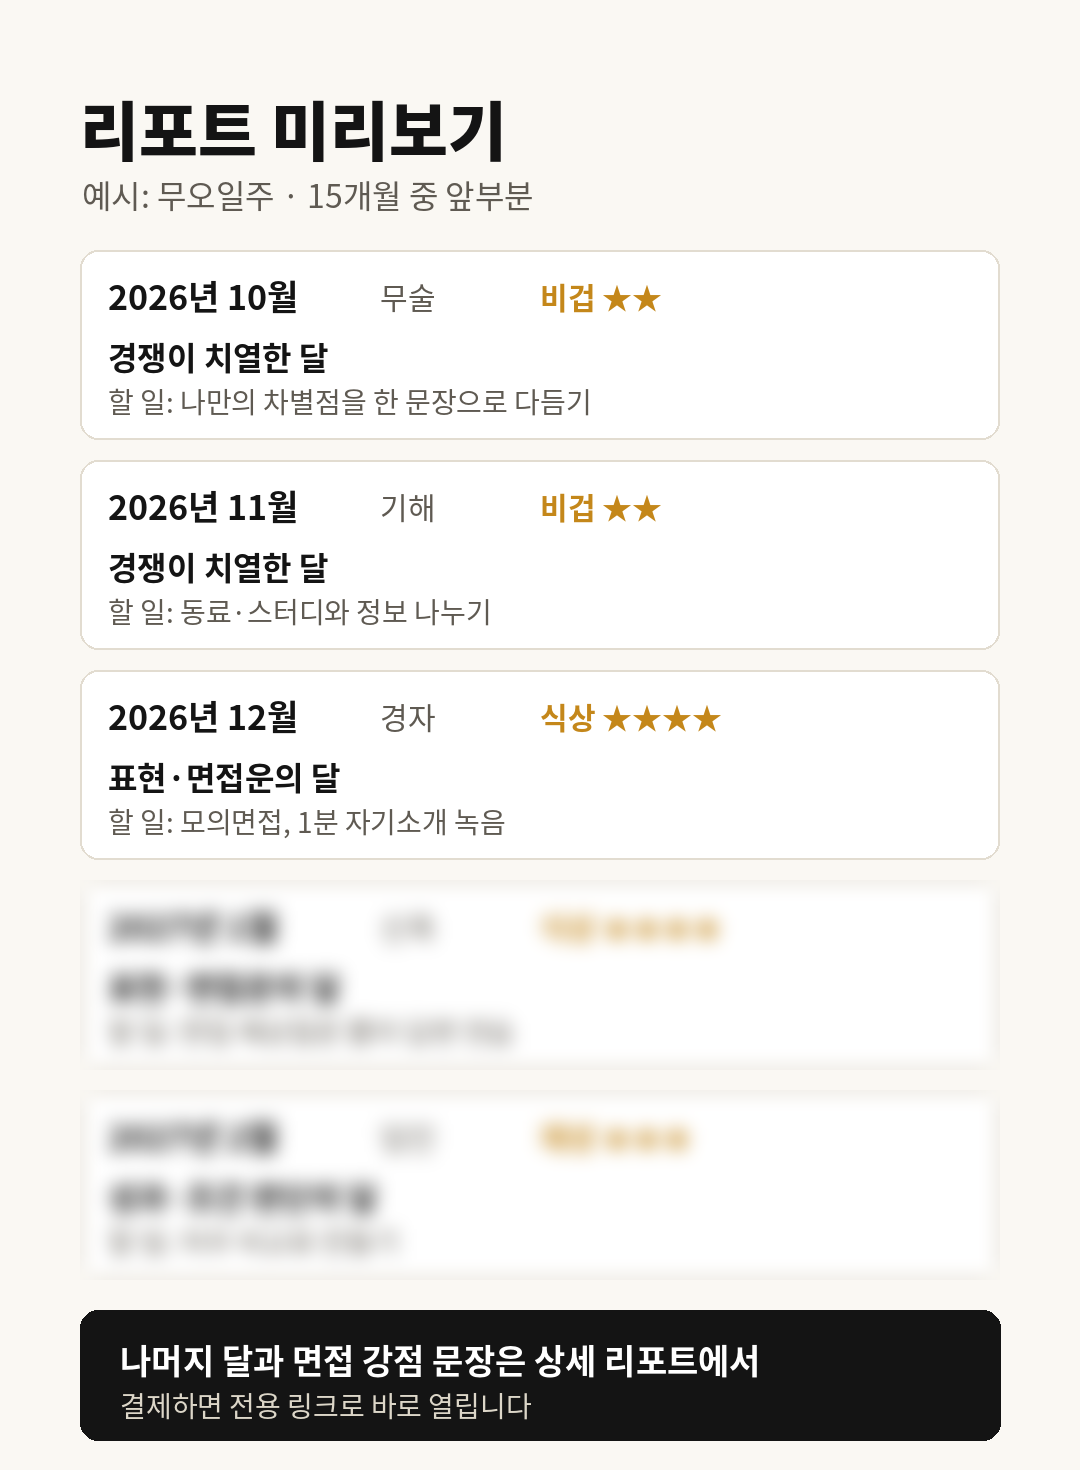
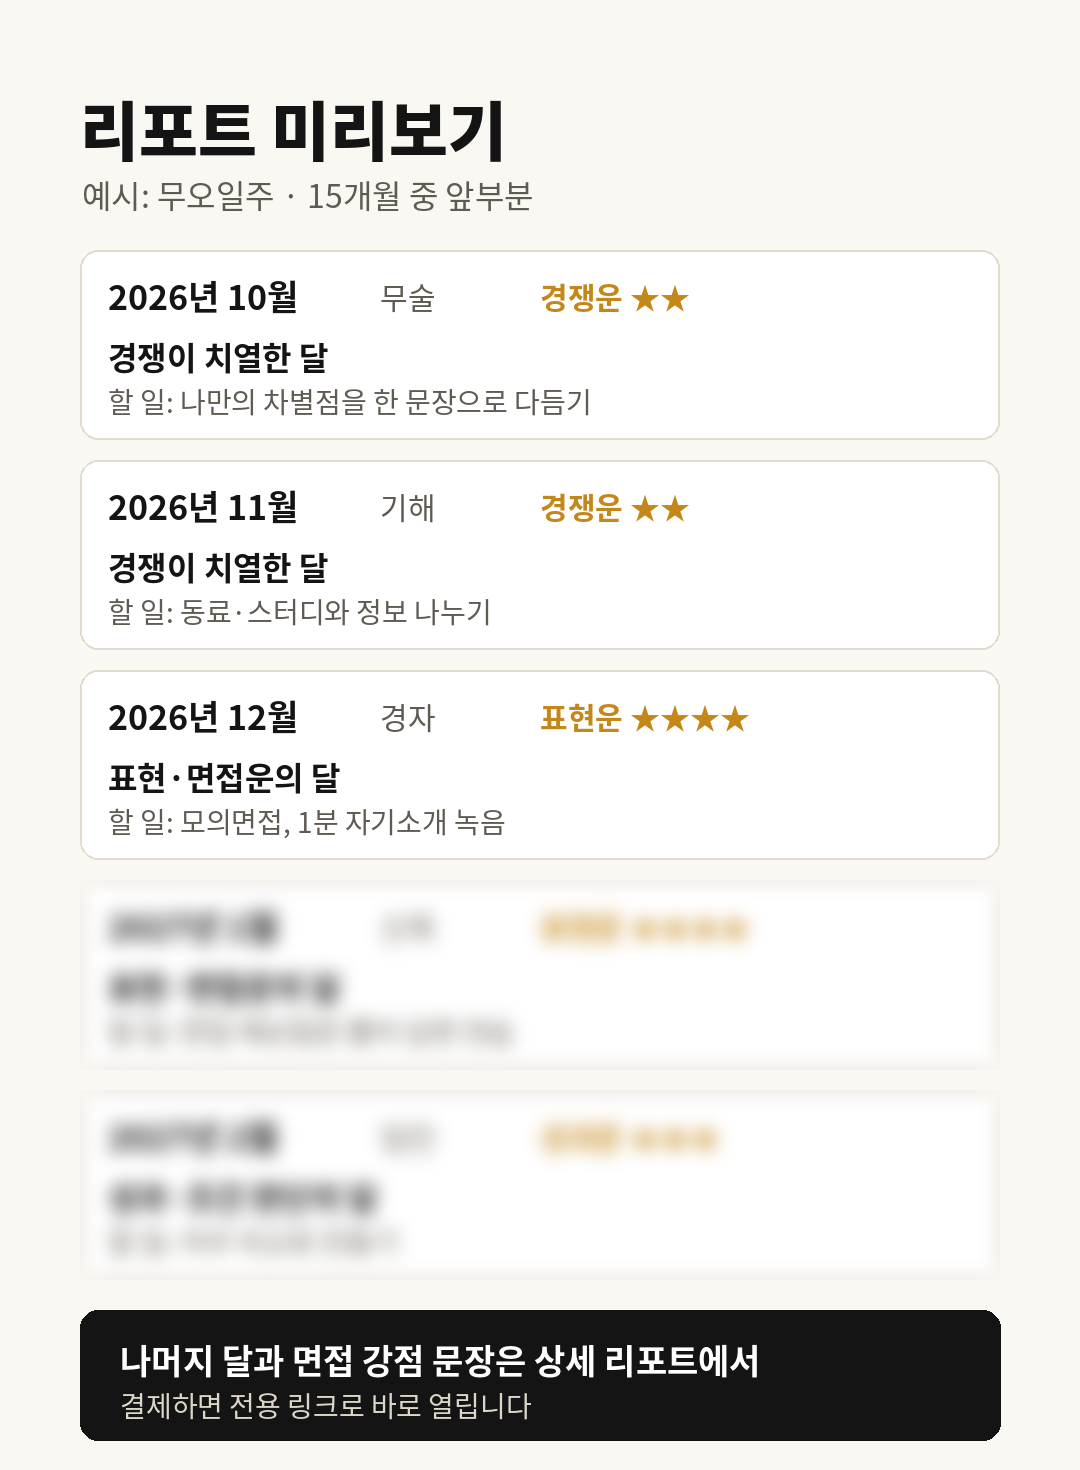
취업 사주: 십신 용어 앞에 쉬운 말(직장운·문서운·표현운·성과운·경쟁운) — 도구 표·래피드 미리보기 이미지

diff --git a/tools/job-saju.html b/tools/job-saju.html
@@ -265,7 +265,7 @@ function d(i){return document.getElementById(i);}
 var BUY_URL='https://www.latpeed.com/products/j7D20'; // 라텟 이용권 상품 URL (취업운세와 공용)
[1 lines of base64/hex data omitted]
 var S='갑을병정무기경신임계', B='자축인묘진사오미신유술해', HS='甲乙丙丁戊己庚辛壬癸', HB='子丑寅卯辰巳午未申酉戌亥';
-var DM=[["갑목", "큰 나무", ["목표가 정해지면 곧게 밀고 나가는 추진형입니다.", "앞장서서 판을 짜는 역할에서 힘을 냅니다.", "방향이 흔들리는 조직에서는 답답함을 크게 느낍니다."], ["\"목표를 먼저 정하고 역할을 나눠 끝까지 끌고 간 경험이 있습니다.\"", "\"맡은 일의 방향이 흐려지면 먼저 기준을 제안하는 편입니다.\""], ["내가 처음 시작해서 끝까지 이끈 일은 무엇인가?", "팀이 멈췄을 때 방향을 다시 잡은 순간은 언제인가?"], "목표가 분명하고 책임 범위가 넓은 자리"], ["을목", "풀과 덩굴", ["상황에 맞춰 유연하게 길을 찾는 적응형입니다.", "사람 사이를 잇고 분위기를 살리는 데 강합니다.", "혼자 모든 걸 결정해야 하는 자리에서는 부담을 느낍니다."], ["\"처음 맡는 일도 주변 자료와 사람을 빠르게 연결해 적응했습니다.\"", "\"의견이 갈릴 때 양쪽이 받아들일 수 있는 방법을 찾는 편입니다.\""], ["낯선 환경에 빠르게 적응했던 경험은 무엇인가?", "서로 다른 사람을 연결해 일이 풀린 적은 언제인가?"], "협업이 많고 관계가 중요한 자리"], ["병화", "태양", ["밝고 솔직하게 드러내는 표현형입니다.", "사람들 앞에서 설명하고 설득하는 자리에서 빛납니다.", "반복적이고 조용한 일만 계속되면 쉽게 지칩니다."], ["\"사람들 앞에서 설명하고 반응을 이끌어내는 일에 자신이 있습니다.\"", "\"분위기가 가라앉은 팀에서 먼저 말을 꺼내 흐름을 바꾼 적이 있습니다.\""], ["내가 앞에 나서서 분위기를 바꾼 순간은 언제인가?", "설명이나 발표로 누군가를 설득한 경험은 무엇인가?"], "드러내고 설득하는 대면 업무"], ["정화", "촛불", ["한곳에 집중해 섬세하게 완성하는 몰입형입니다.", "사람의 마음을 세심하게 살피는 배려가 강점입니다.", "한꺼번에 여러 일을 던지면 집중이 흩어집니다."], ["\"한 가지 일에 깊이 몰입해 완성도를 끝까지 끌어올린 경험이 있습니다.\"", "\"상대가 말하지 않은 불편을 먼저 알아차려 챙기는 편입니다.\""], ["끝까지 파고들어 완성도를 높인 결과물은 무엇인가?", "누군가의 불편을 먼저 알아차려 해결한 적은 언제인가?"], "전문성을 깊게 쌓는 자리"], ["무토", "큰 산", ["묵직하게 중심을 지키는 신뢰형입니다.", "갈등 속에서도 흔들리지 않고 조율하는 힘이 있습니다.", "변화가 너무 잦은 조직에서는 피로를 느낍니다."], ["\"약속한 일은 끝까지 지켜 팀에서 믿고 맡기는 사람이 됐습니다.\"", "\"의견이 부딪칠 때 한발 물러서 전체 그림을 정리하는 역할을 맡습니다.\""], ["사람들이 나에게 믿고 맡긴 일은 무엇이었나?", "갈등 한가운데서 중심을 잡은 경험은 언제인가?"], "안정적으로 조직을 받치는 자리"], ["기토", "논밭", ["실속 있게 가꾸고 챙기는 실용형입니다.", "세부 일정과 사람을 꼼꼼히 조율하는 데 강합니다.", "큰 그림만 있고 실행 계획이 없는 일은 불편해합니다."], ["\"큰 목표를 날짜별 할 일로 쪼개 실제로 굴러가게 만든 경험이 있습니다.\"", "\"놓치기 쉬운 세부 사항을 챙겨 일정이 밀리지 않게 했습니다.\""], ["막연한 계획을 실행 가능한 일정으로 바꾼 적은 언제인가?", "작은 부분을 챙겨 큰 문제를 막은 경험은 무엇인가?"], "운영·관리처럼 실행을 챙기는 자리"], ["경금", "바위와 쇠", ["원칙이 분명하고 결단이 빠른 실행형입니다.", "어려운 결정을 미루지 않고 밀어붙이는 힘이 있습니다.", "기준 없이 흐지부지 넘어가는 문화와는 맞지 않습니다."], ["\"기준을 세우고 빠르게 결정해 일을 끝낸 경험이 있습니다.\"", "\"불편하더라도 필요한 말은 분명하게 하는 편입니다.\""], ["다들 망설일 때 내가 결단한 일은 무엇인가?", "원칙을 지켜서 결과가 좋아진 경험은 언제인가?"], "결정과 실행이 빠른 자리"], ["신금", "보석", ["정교하게 다듬어 완성도를 높이는 완벽형입니다.", "작은 차이를 알아보는 감각이 뛰어납니다.", "대충 끝내는 분위기에서는 스트레스를 받습니다."], ["\"결과물을 여러 번 점검해 오류 없이 마무리하는 편입니다.\"", "\"남들이 지나치는 작은 차이를 찾아 품질을 높인 경험이 있습니다.\""], ["작은 차이를 알아봐서 결과가 달라진 적은 언제인가?", "끝까지 다듬어 완성도를 높인 결과물은 무엇인가?"], "품질과 정확성이 중요한 자리"], ["임수", "바다", ["크게 보고 멀리 계획하는 전략형입니다.", "여러 정보를 모아 흐름을 읽는 데 강합니다.", "너무 좁은 규칙에 묶이면 답답해합니다."], ["\"흩어진 정보를 모아 전체 흐름을 읽고 방향을 제안한 경험이 있습니다.\"", "\"당장보다 몇 단계 뒤를 보고 준비하는 편입니다.\""], ["전체 흐름을 읽고 먼저 움직인 경험은 무엇인가?", "여러 정보를 모아 새로운 방법을 찾은 적은 언제인가?"], "기획·전략처럼 큰 그림을 그리는 자리"], ["계수", "비와 이슬", ["조용히 스며들어 분석하는 세심형입니다.", "데이터와 사람의 반응을 섬세하게 읽어 냅니다.", "성과를 크게 드러내야 하는 자리에서는 움츠러들 수 있습니다."], ["\"자료를 꼼꼼히 분석해 놓치던 원인을 찾아낸 경험이 있습니다.\"", "\"상대의 반응을 살피며 설명 방식을 바꿔 이해를 도운 적이 있습니다.\""], ["분석으로 문제의 진짜 원인을 찾은 경험은 무엇인가?", "상대에 맞춰 방식을 바꿔 결과가 좋아진 적은 언제인가?"], "분석과 지원처럼 깊이 있게 돕는 자리"]], EL=["목(木)", "화(火)", "토(土)", "금(金)", "수(水)"], YEAR={"0": "표현하고 드러낼수록 기회가 오는 흐름입니다. 면접·포트폴리오처럼 나를 보여 주는 전형에서 힘이 붙습니다.", "1": "비슷한 사람이 많아 경쟁이 치열한 흐름입니다. 대신 스터디·동료·지인 추천처럼 사람을 통한 기회가 힘이 됩니다.", "2": "문서와 자격, 합격 소식이 따르는 흐름입니다. 서류 전형과 자격 취득, 추천서처럼 \"나를 증명하는 문서\"에 힘이 실립니다.", "3": "직장과 조직의 기운이 강하게 들어오는 흐름입니다. 취업·이직·승진처럼 소속이 정해지는 일에 가장 좋은 때입니다.", "4": "성과와 보상, 현실 감각이 살아나는 흐름입니다. 처우 비교와 연봉 협상처럼 조건을 따지는 판단에 유리합니다."}, SS={"gwan": ["관성", 5, "합격·조직운이 강한 달", "최종 전형과 입사 결정이 몰리는 때입니다. 지원 수를 늘리고 면접 준비에 힘을 싣으세요.", ["/daily-question", "면접 질문 100개로 답변 연습"]], "in": ["인성", 4, "서류·자격·도움운의 달", "서류를 마무리하고 자격 시험, 추천 요청처럼 나를 증명하는 일에 좋은 때입니다.", ["/tools/checklist", "자소서 제출 전 자가진단"]], "sik": ["식상", 4, "표현·면접운의 달", "말하고 보여 주는 힘이 살아납니다. 모의면접과 1분 자기소개 녹음을 해 보세요.", ["/tools/interview-question-picker", "면접 예상질문 뽑기"]], "jae": ["재성", 3, "성과·조건 판단의 달", "처우를 비교하고 현실적인 선택을 하기 좋은 때입니다. 연봉과 조건을 표로 정리하세요.", ["/tools/salary", "실수령액 계산기"]], "bi": ["비겁", 2, "경쟁이 치열한 달", "비슷한 지원자가 몰리는 때입니다. 나만의 차별점을 한 문장으로 다듬고 동료와 정보를 나누세요.", ["/blog/job-search-scope-strategy", "병행 지원 관리법"]]};
+var DM=[["갑목", "큰 나무", ["목표가 정해지면 곧게 밀고 나가는 추진형입니다.", "앞장서서 판을 짜는 역할에서 힘을 냅니다.", "방향이 흔들리는 조직에서는 답답함을 크게 느낍니다."], ["\"목표를 먼저 정하고 역할을 나눠 끝까지 끌고 간 경험이 있습니다.\"", "\"맡은 일의 방향이 흐려지면 먼저 기준을 제안하는 편입니다.\""], ["내가 처음 시작해서 끝까지 이끈 일은 무엇인가?", "팀이 멈췄을 때 방향을 다시 잡은 순간은 언제인가?"], "목표가 분명하고 책임 범위가 넓은 자리"], ["을목", "풀과 덩굴", ["상황에 맞춰 유연하게 길을 찾는 적응형입니다.", "사람 사이를 잇고 분위기를 살리는 데 강합니다.", "혼자 모든 걸 결정해야 하는 자리에서는 부담을 느낍니다."], ["\"처음 맡는 일도 주변 자료와 사람을 빠르게 연결해 적응했습니다.\"", "\"의견이 갈릴 때 양쪽이 받아들일 수 있는 방법을 찾는 편입니다.\""], ["낯선 환경에 빠르게 적응했던 경험은 무엇인가?", "서로 다른 사람을 연결해 일이 풀린 적은 언제인가?"], "협업이 많고 관계가 중요한 자리"], ["병화", "태양", ["밝고 솔직하게 드러내는 표현형입니다.", "사람들 앞에서 설명하고 설득하는 자리에서 빛납니다.", "반복적이고 조용한 일만 계속되면 쉽게 지칩니다."], ["\"사람들 앞에서 설명하고 반응을 이끌어내는 일에 자신이 있습니다.\"", "\"분위기가 가라앉은 팀에서 먼저 말을 꺼내 흐름을 바꾼 적이 있습니다.\""], ["내가 앞에 나서서 분위기를 바꾼 순간은 언제인가?", "설명이나 발표로 누군가를 설득한 경험은 무엇인가?"], "드러내고 설득하는 대면 업무"], ["정화", "촛불", ["한곳에 집중해 섬세하게 완성하는 몰입형입니다.", "사람의 마음을 세심하게 살피는 배려가 강점입니다.", "한꺼번에 여러 일을 던지면 집중이 흩어집니다."], ["\"한 가지 일에 깊이 몰입해 완성도를 끝까지 끌어올린 경험이 있습니다.\"", "\"상대가 말하지 않은 불편을 먼저 알아차려 챙기는 편입니다.\""], ["끝까지 파고들어 완성도를 높인 결과물은 무엇인가?", "누군가의 불편을 먼저 알아차려 해결한 적은 언제인가?"], "전문성을 깊게 쌓는 자리"], ["무토", "큰 산", ["묵직하게 중심을 지키는 신뢰형입니다.", "갈등 속에서도 흔들리지 않고 조율하는 힘이 있습니다.", "변화가 너무 잦은 조직에서는 피로를 느낍니다."], ["\"약속한 일은 끝까지 지켜 팀에서 믿고 맡기는 사람이 됐습니다.\"", "\"의견이 부딪칠 때 한발 물러서 전체 그림을 정리하는 역할을 맡습니다.\""], ["사람들이 나에게 믿고 맡긴 일은 무엇이었나?", "갈등 한가운데서 중심을 잡은 경험은 언제인가?"], "안정적으로 조직을 받치는 자리"], ["기토", "논밭", ["실속 있게 가꾸고 챙기는 실용형입니다.", "세부 일정과 사람을 꼼꼼히 조율하는 데 강합니다.", "큰 그림만 있고 실행 계획이 없는 일은 불편해합니다."], ["\"큰 목표를 날짜별 할 일로 쪼개 실제로 굴러가게 만든 경험이 있습니다.\"", "\"놓치기 쉬운 세부 사항을 챙겨 일정이 밀리지 않게 했습니다.\""], ["막연한 계획을 실행 가능한 일정으로 바꾼 적은 언제인가?", "작은 부분을 챙겨 큰 문제를 막은 경험은 무엇인가?"], "운영·관리처럼 실행을 챙기는 자리"], ["경금", "바위와 쇠", ["원칙이 분명하고 결단이 빠른 실행형입니다.", "어려운 결정을 미루지 않고 밀어붙이는 힘이 있습니다.", "기준 없이 흐지부지 넘어가는 문화와는 맞지 않습니다."], ["\"기준을 세우고 빠르게 결정해 일을 끝낸 경험이 있습니다.\"", "\"불편하더라도 필요한 말은 분명하게 하는 편입니다.\""], ["다들 망설일 때 내가 결단한 일은 무엇인가?", "원칙을 지켜서 결과가 좋아진 경험은 언제인가?"], "결정과 실행이 빠른 자리"], ["신금", "보석", ["정교하게 다듬어 완성도를 높이는 완벽형입니다.", "작은 차이를 알아보는 감각이 뛰어납니다.", "대충 끝내는 분위기에서는 스트레스를 받습니다."], ["\"결과물을 여러 번 점검해 오류 없이 마무리하는 편입니다.\"", "\"남들이 지나치는 작은 차이를 찾아 품질을 높인 경험이 있습니다.\""], ["작은 차이를 알아봐서 결과가 달라진 적은 언제인가?", "끝까지 다듬어 완성도를 높인 결과물은 무엇인가?"], "품질과 정확성이 중요한 자리"], ["임수", "바다", ["크게 보고 멀리 계획하는 전략형입니다.", "여러 정보를 모아 흐름을 읽는 데 강합니다.", "너무 좁은 규칙에 묶이면 답답해합니다."], ["\"흩어진 정보를 모아 전체 흐름을 읽고 방향을 제안한 경험이 있습니다.\"", "\"당장보다 몇 단계 뒤를 보고 준비하는 편입니다.\""], ["전체 흐름을 읽고 먼저 움직인 경험은 무엇인가?", "여러 정보를 모아 새로운 방법을 찾은 적은 언제인가?"], "기획·전략처럼 큰 그림을 그리는 자리"], ["계수", "비와 이슬", ["조용히 스며들어 분석하는 세심형입니다.", "데이터와 사람의 반응을 섬세하게 읽어 냅니다.", "성과를 크게 드러내야 하는 자리에서는 움츠러들 수 있습니다."], ["\"자료를 꼼꼼히 분석해 놓치던 원인을 찾아낸 경험이 있습니다.\"", "\"상대의 반응을 살피며 설명 방식을 바꿔 이해를 도운 적이 있습니다.\""], ["분석으로 문제의 진짜 원인을 찾은 경험은 무엇인가?", "상대에 맞춰 방식을 바꿔 결과가 좋아진 적은 언제인가?"], "분석과 지원처럼 깊이 있게 돕는 자리"]], EL=["목(木)", "화(火)", "토(土)", "금(金)", "수(水)"], YEAR={"0": "표현하고 드러낼수록 기회가 오는 흐름입니다. 면접·포트폴리오처럼 나를 보여 주는 전형에서 힘이 붙습니다.", "1": "비슷한 사람이 많아 경쟁이 치열한 흐름입니다. 대신 스터디·동료·지인 추천처럼 사람을 통한 기회가 힘이 됩니다.", "2": "문서와 자격, 합격 소식이 따르는 흐름입니다. 서류 전형과 자격 취득, 추천서처럼 \"나를 증명하는 문서\"에 힘이 실립니다.", "3": "직장과 조직의 기운이 강하게 들어오는 흐름입니다. 취업·이직·승진처럼 소속이 정해지는 일에 가장 좋은 때입니다.", "4": "성과와 보상, 현실 감각이 살아나는 흐름입니다. 처우 비교와 연봉 협상처럼 조건을 따지는 판단에 유리합니다."}, SS={"gwan": ["직장운·관성", 5, "합격·조직운이 강한 달", "최종 전형과 입사 결정이 몰리는 때입니다. 지원 수를 늘리고 면접 준비에 힘을 싣으세요.", ["/daily-question", "면접 질문 100개로 답변 연습"]], "in": ["문서운·인성", 4, "서류·자격·도움운의 달", "서류를 마무리하고 자격 시험, 추천 요청처럼 나를 증명하는 일에 좋은 때입니다.", ["/tools/checklist", "자소서 제출 전 자가진단"]], "sik": ["표현운·식상", 4, "표현·면접운의 달", "말하고 보여 주는 힘이 살아납니다. 모의면접과 1분 자기소개 녹음을 해 보세요.", ["/tools/interview-question-picker", "면접 예상질문 뽑기"]], "jae": ["성과운·재성", 3, "성과·조건 판단의 달", "처우를 비교하고 현실적인 선택을 하기 좋은 때입니다. 연봉과 조건을 표로 정리하세요.", ["/tools/salary", "실수령액 계산기"]], "bi": ["경쟁운·비겁", 2, "경쟁이 치열한 달", "비슷한 지원자가 몰리는 때입니다. 나만의 차별점을 한 문장으로 다듬고 동료와 정보를 나누세요.", ["/blog/job-search-scope-strategy", "병행 지원 관리법"]]};
 var MONTHS=[[2026,10,4,10],[2026,11,5,11],[2026,12,6,0],[2027,1,7,1],[2027,2,8,2],[2027,3,9,3],[2027,4,0,4],[2027,5,1,5],[2027,6,2,6],[2027,7,3,7],[2027,8,4,8],[2027,9,5,9],[2027,10,6,10],[2027,11,7,11],[2027,12,8,0]];
 function dayIdx(y,m,dd,late){var n=Math.round((Date.UTC(y,m-1,dd)-Date.UTC(2000,0,1))/86400000)+(late?1:0);return ((54+n)%60+60)%60;}
 function elOf(stem){return Math.floor(stem/2);}
